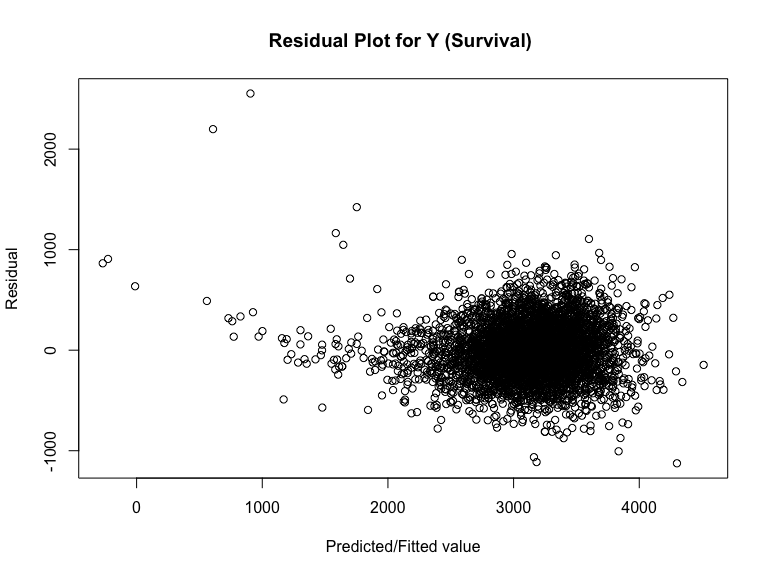
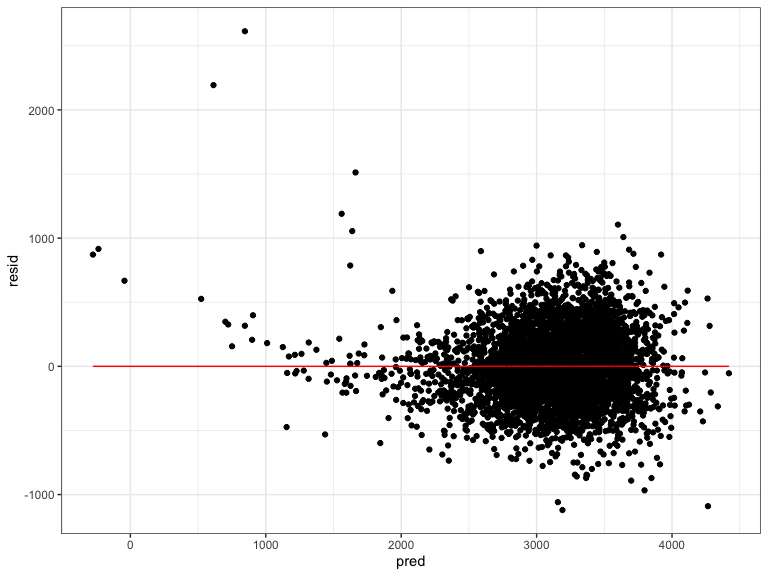
Problem 1 Residual plot

diff --git a/p8105_hw6_gl2677.md b/p8105_hw6_gl2677.md
@@ -12,3 +12,35 @@ birthweight = read_csv("data/birthweight.csv") %>%
          malform = as.factor(malform),
          mrace = as.factor(mrace))
 ```
+
+``` r
+my_fit = lm(bwt ~ babysex + blength + gaweeks + bhead,
+            data = birthweight)
+birthweight %>% 
+  add_residuals(my_fit) %>% 
+  add_predictions(my_fit) %>% 
+  ggplot(aes(x = pred, y = resid)) +
+  geom_point() +
+  geom_line(aes(y = 0),  color = "red")
+```
+
+<img src="p8105_hw6_gl2677_files/figure-gfm/residual plot-1.png" width="90%" />
+
+``` r
+birthweight %>% 
+  add_residuals(initial_fit) %>% 
+  add_predictions(initial_fit) %>% 
+  ggplot(aes(x = pred, y = resid)) +
+  geom_point() +
+  geom_line(aes(y = 0),  color = "red")
+```
+
+<img src="p8105_hw6_gl2677_files/figure-gfm/residual plot-2.png" width="90%" />
+
+Firsty I used anava Global F test to find the predictors with
+significant effect on the birthweight. 12 variables show the
+significance. Then base on the common sense, and to make the model
+simpler, I only choose 4 variables which are highly associated with the
+birthweight. The model I use only contain the main effect of the baby’s
+sex, baby’s length at birth, baby’s head circumference at birth
+(centimeters) and gestational age in weeks.
